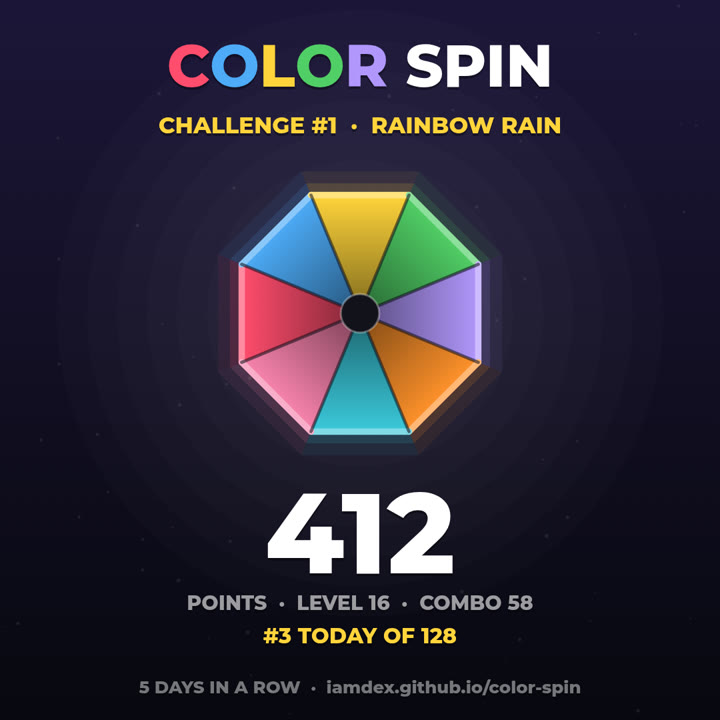
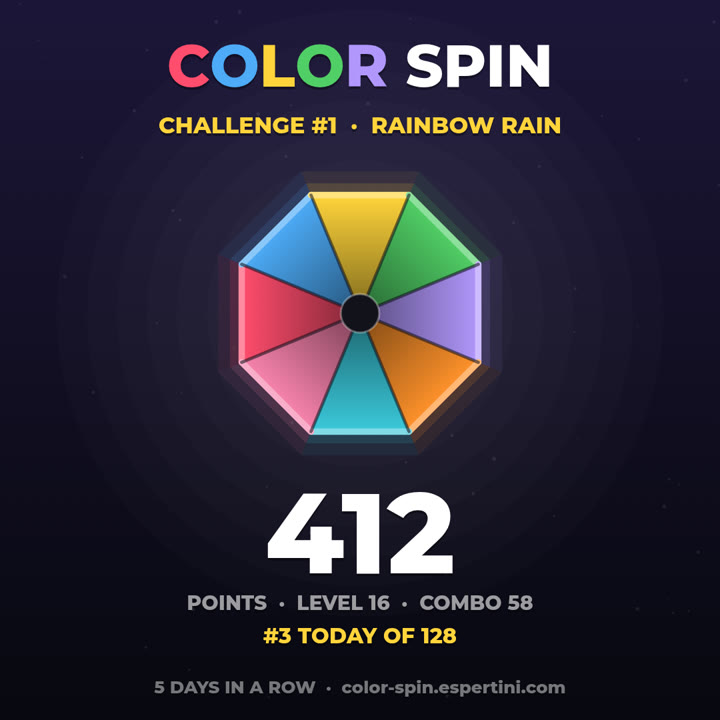
Dominio color-spin.espertini.com
- site/CNAME, così il dominio resta dopo ogni pubblicazione di gh-pages
- Il gioco condivide color-spin.espertini.com (immagine e testo)
- Anteprima dei link del sito, card del sito e README con il nuovo indirizzo

Changed region(s): [[0.1833, 0.9472, 0.825, 0.9778]]

diff --git a/site/index.html b/site/index.html
@@ -9,8 +9,8 @@
 <meta property="og:type" content="website">
 <meta property="og:title" content="Color Spin">
 <meta property="og:description" content="Ruota la figura, abbina i colori, non fermarti più. Gratis nel browser, presto su Android e iOS.">
-<meta property="og:image" content="https://iamdex.github.io/color-spin/assets/og-image.jpg">
-<meta property="og:url" content="https://iamdex.github.io/color-spin/">
+<meta property="og:image" content="https://color-spin.espertini.com/assets/og-image.jpg">
+<meta property="og:url" content="https://color-spin.espertini.com/">
 <meta name="twitter:card" content="summary_large_image">
 <link rel="icon" type="image/png" href="assets/favicon.png">
 <link rel="apple-touch-icon" href="assets/icon-192.png">

diff --git a/web/index.html b/web/index.html
@@ -56,7 +56,7 @@
   // The daily challenge: one ball sequence per day (Italian time), the same for
   // everyone, with a rule of the day taken in turn from TWISTS.
   const DAILY_START = '2026-09-29', DAY_MS = 86400000, DAILY_KEY = 'color-spin-daily';
-  const SHARE_URL = 'iamdex.github.io/color-spin';
+  const SHARE_URL = 'color-spin.espertini.com';
   // special: {kind: [from level, chance]} replaces that ball's usual rule.
   const TWISTS = [
     { id: 'rainbow', special: { jolly: [1, 0.15] } },

diff --git a/README.md b/README.md
@@ -3,10 +3,11 @@
 Spin the shape and match the color of the balls. A game by Davide Dex Espertini.
 
 - `web/index.html`: the game (JavaScript and canvas; graphics, sounds and music are generated in code).
-  It runs as a claude.ai artifact, on GitHub Pages at https://iamdex.github.io/color-spin/play/ and inside the mobile app.
-- `site/`: the presentation site at https://iamdex.github.io/color-spin/ (with the privacy policy). The store links
+  It runs as a claude.ai artifact, on GitHub Pages at https://color-spin.espertini.com/play/ and inside the mobile app.
+- `site/`: the presentation site at https://color-spin.espertini.com/ (with the privacy policy). The store links
   are the `STORE_LINKS` placeholders at the top of the script in `site/index.html`.
   `web/build-pages.sh <dir>` builds the Pages site: `site/` at the root and the game under `play/`.
+  The custom domain is set by `site/CNAME` (DNS: a CNAME on Cloudflare to iamdex.github.io, DNS only).
 - `mobile/`: the Expo app for Android and iOS. It loads the web game in a full-screen WebView;
   `mobile/scripts/build-game.mjs` bundles `web/index.html` into it on `npm install` and `npm start`.
 - `server/`: the global leaderboard (https://scores.espertini.com), a Cloudflare Worker with a D1 database. Used by GitHub Pages
